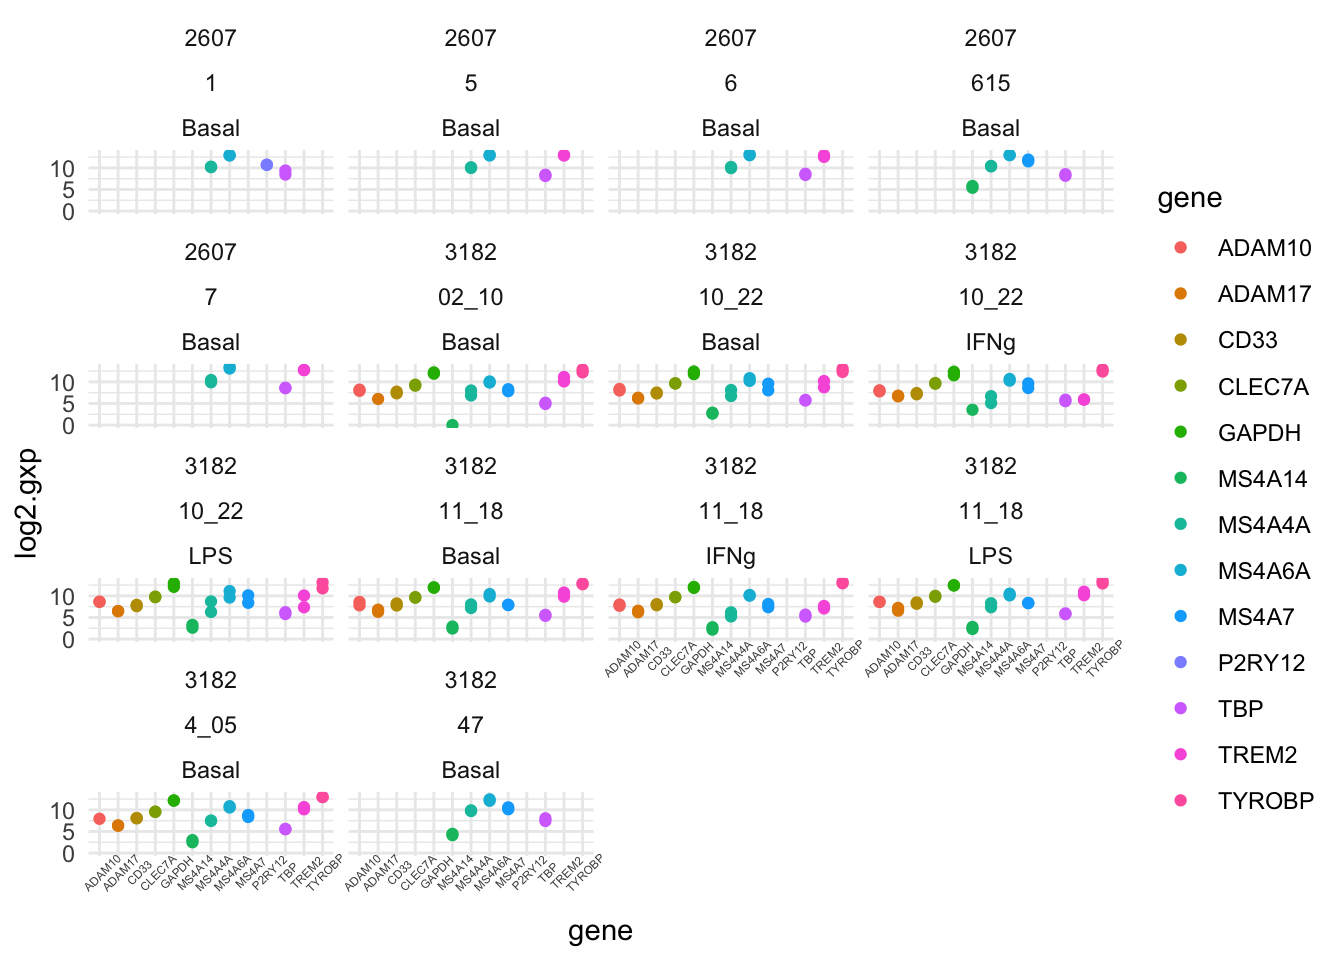
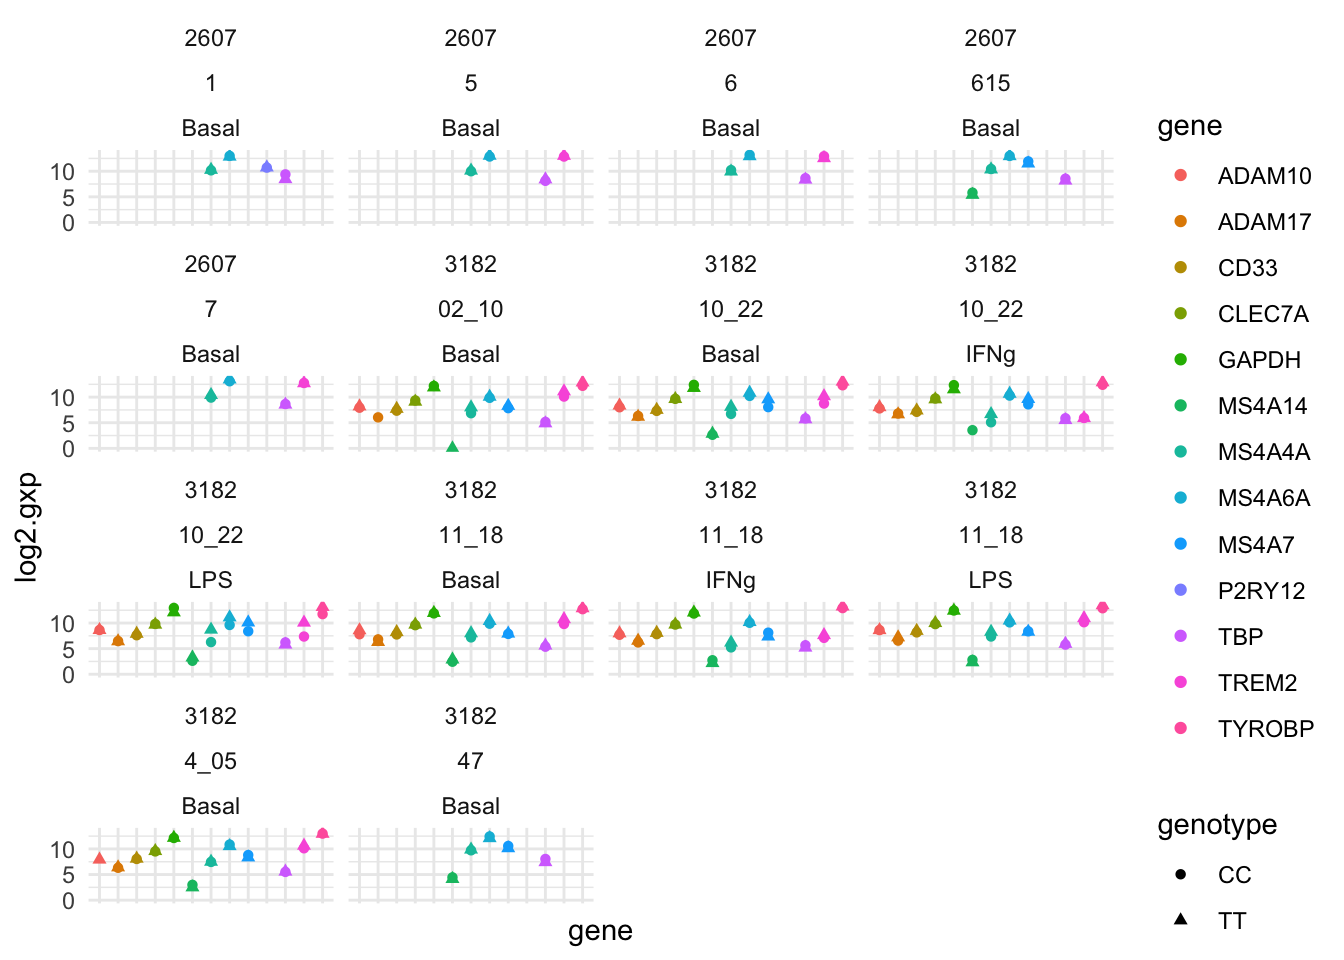
Minor changes to the EDA plot

diff --git a/index.html b/index.html
@@ -171,9 +171,9 @@ code span.wa { color: #60a0b0; font-weight: bold; font-style: italic; } /* Warni
 </div>
 <div class="cell">
 <div class="sourceCode cell-code" id="cb4"><pre class="sourceCode r code-with-copy"><code class="sourceCode r"><span id="cb4-1"><a href="#cb4-1" aria-hidden="true" tabindex="-1"></a>df <span class="sc">%&gt;%</span></span>
-<span id="cb4-2"><a href="#cb4-2" aria-hidden="true" tabindex="-1"></a>  <span class="fu">ggplot</span>(<span class="fu">aes</span>(<span class="at">x =</span> gene, <span class="at">y =</span> log2.gxp, <span class="at">color =</span> gene)) <span class="sc">+</span></span>
+<span id="cb4-2"><a href="#cb4-2" aria-hidden="true" tabindex="-1"></a>  <span class="fu">ggplot</span>(<span class="fu">aes</span>(<span class="at">x =</span> gene, <span class="at">y =</span> log2.gxp, <span class="at">color =</span> gene, <span class="at">shape =</span> genotype)) <span class="sc">+</span></span>
 <span id="cb4-3"><a href="#cb4-3" aria-hidden="true" tabindex="-1"></a>  <span class="fu">geom_point</span>(<span class="at">stat =</span> <span class="st">"identity"</span>) <span class="sc">+</span></span>
-<span id="cb4-4"><a href="#cb4-4" aria-hidden="true" tabindex="-1"></a>  <span class="fu">theme</span>(<span class="at">axis.text.x =</span> <span class="fu">element_text</span>(<span class="at">angle =</span> <span class="dv">45</span>, <span class="at">size =</span> <span class="fu">rel</span>(<span class="fl">0.5</span>))) <span class="sc">+</span></span>
+<span id="cb4-4"><a href="#cb4-4" aria-hidden="true" tabindex="-1"></a>  <span class="fu">theme</span>(<span class="at">axis.text.x =</span> <span class="fu">element_blank</span>()) <span class="sc">+</span> <span class="co"># theme(axis.text.x = element_text(angle = 45, size = rel(0.5))) +</span></span>
 <span id="cb4-5"><a href="#cb4-5" aria-hidden="true" tabindex="-1"></a>  <span class="fu">facet_wrap</span>(<span class="sc">~</span> line <span class="sc">+</span> experiment <span class="sc">+</span> treatment)</span></code><button title="Copy to Clipboard" class="code-copy-button"><i class="bi"></i></button></pre></div>
 <div class="cell-output-display">
 <p><img src="index_files/figure-html/unnamed-chunk-4-1.png" class="img-fluid" width="672"></p>
